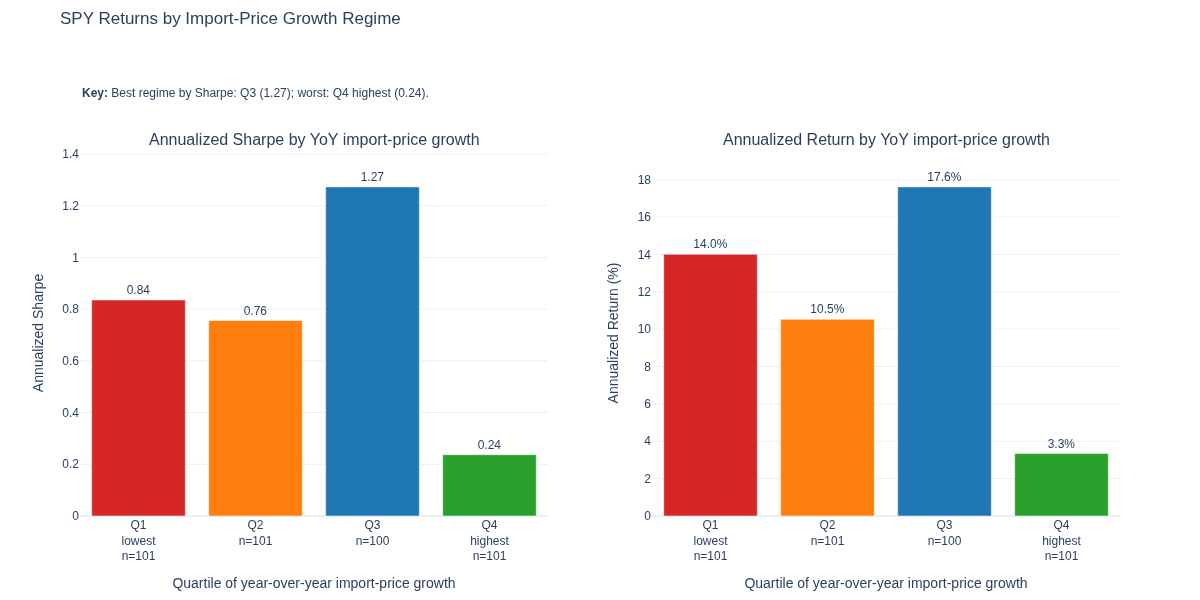
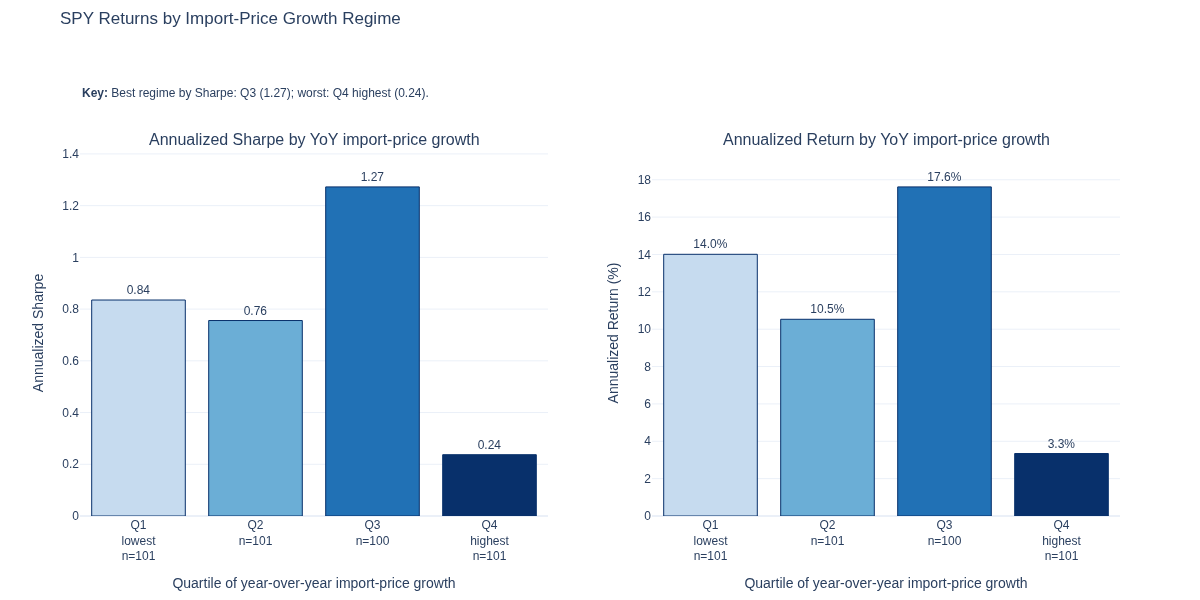
import_price_spy: same-tag rerun 20261020 on harness f817181d (plateau.tie recorded; comparison J tie L4-L6 vs L5-L7 broken by search order, winner unchanged); Methodology data table shows source labels
Every tournament, strategy-return, null and evidence file is byte-identical to the previous 20261020 run; only
generated_at stamps and winner_summary.tracks.comparison.plateau.tie changed. lead_plateau and regime_stats
re-recorded through their producers (sequential quartile palette).

Claude-Session: https://claude.ai/code/session_013QJi3cY4HgnCo3223v9q3m

diff --git a/app/pair_configs/import_price_spy_config.py b/app/pair_configs/import_price_spy_config.py
@@ -583,10 +583,10 @@ STRATEGY_CONFIG = StrategyConfig()
 _DATA_SOURCES_MD = P.definition_text("""
 | Category | Source | Series | Frequency |
 |---|---|---|---|
-| Indicator (as known at the time) | ALFRED (FRED vintages, pinned in data/release_calendar/vintages/IR.csv.gz) | `IR`, Import Price Index (end use), all commodities, 2000 = 100, not seasonally adjusted, every published vintage (from 2010-03-16) | Monthly |
-| Indicator (as revised today) | FRED (latest vintage of the same file) | `IR` | Monthly (quarterly in the early years) |
-| Release dates | data/release_calendar/release_calendar.csv | first publication date per month | Monthly |
-| Target | Yahoo Finance (pinned: data/phaseB_inputs/spy_month_end_20261017.csv) | SPY adjusted month-end close | Monthly |
+| Indicator (as known at the time) | ALFRED (FRED vintage archive, pinned copy) | `IR`, Import Price Index (end use), all commodities, not seasonally adjusted, every published vintage | Monthly |
+| Indicator (as revised today) | FRED (latest vintage of the same archive) | `IR` | Monthly (quarterly in the early years) |
+| Release dates | Release calendar (first publication date of each month's reading) | `IR` | Monthly |
+| Target | Yahoo Finance (pinned copy) | SPY adjusted month-end close | Monthly |
 """)
 
 _INDICATOR_CONSTRUCTION_MD = (
